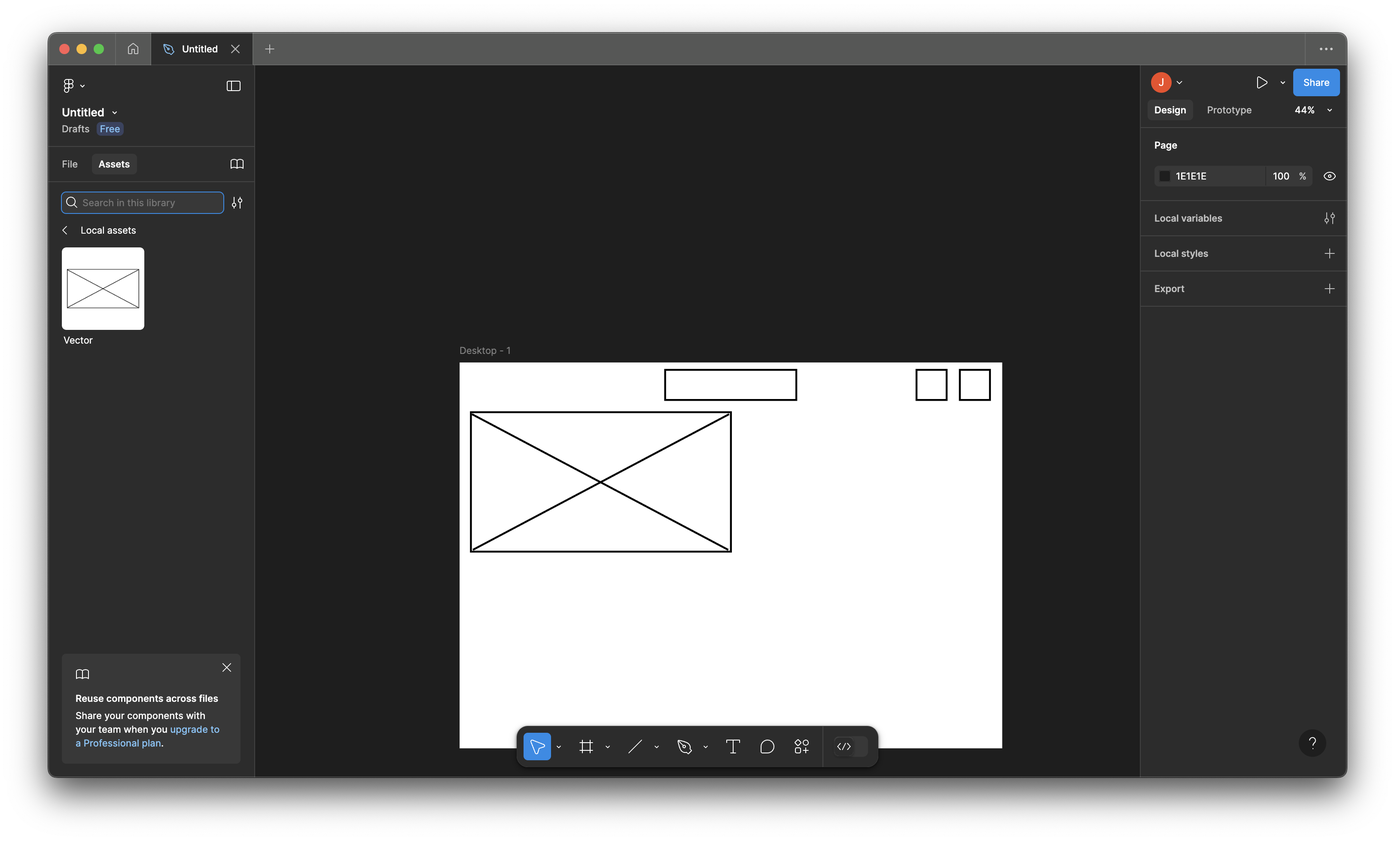
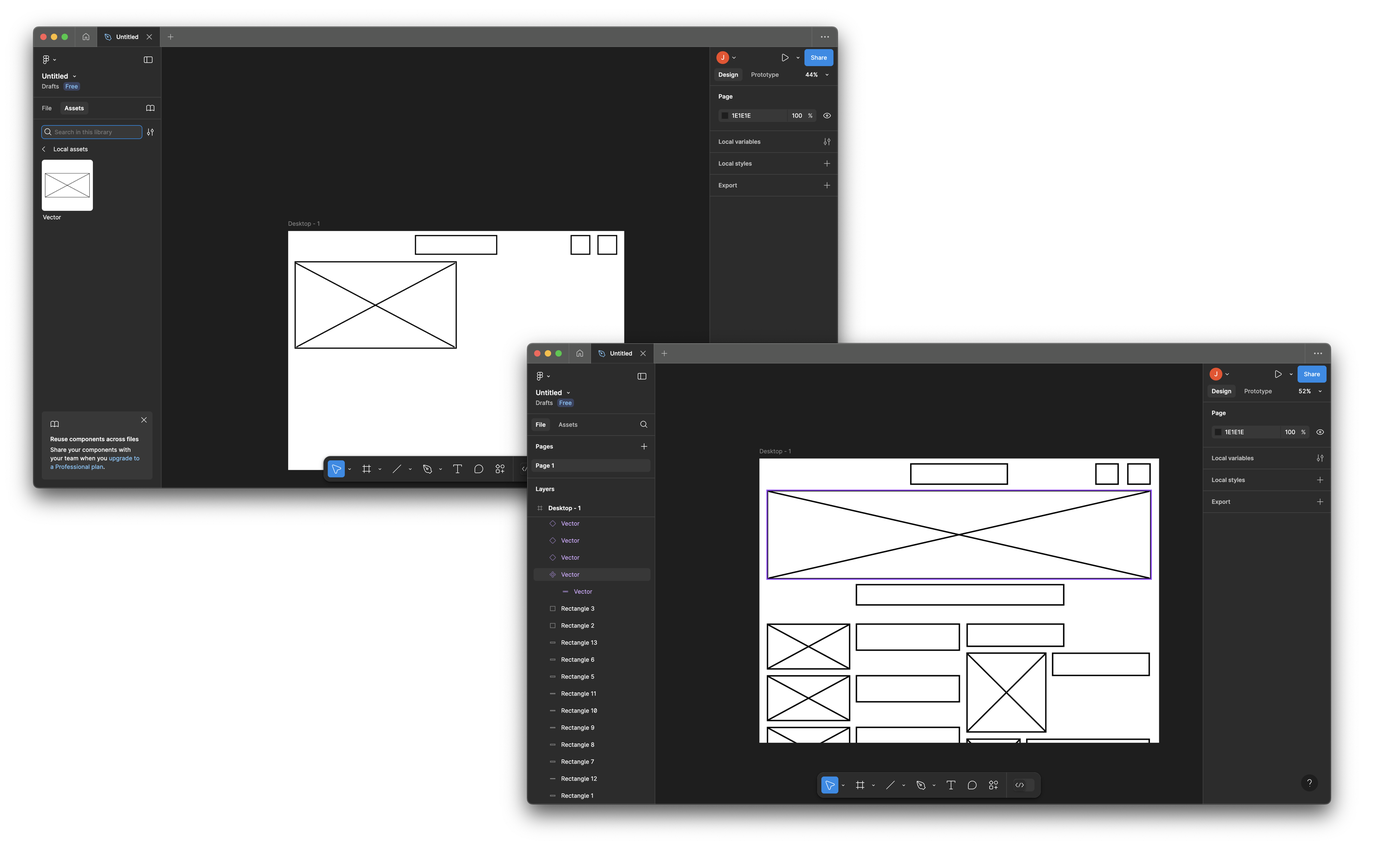
blog

diff --git a/posts/w10s2.md b/posts/w10s2.md
@@ -8,13 +8,13 @@ allow_math: true
 
 # Figma Basics
 
-In class, we learned the basic functions of Figma, such as creating artboards, shapes, gradients, text and prototype interactions and animations. These are the main things that we will need to know to use the application to make our portfolio website for Assignment 3. 
+In class, we learned the basic functions of Figma, including frames, the shape tool, gradients, text and prototype interactions and animations. These are the main things that we will need to know to make our portfolio website for Assignment 3. 
 
-Figma works similarly to Adobe Illustrator, with very similar tools. For instance, the program uses artboards. In Figma, you can choose to make artboards the size of the screens you are designing for. Here, I have three desktop sized artboards and 3 iPhone 13/14 sized artboards. Having multiple of each is an effective way to trial different designs and compare them side by side.
+Figma works similarly to Adobe Illustrator, with very similar tools. For instance, the program uses artboards (but calls them 'frames'). In Figma, you can choose to make frames the size of the screens you are designing for. Here, I have three 'desktop' sized artboards and 3 iPhone 13/14 sized artboards. Having multiple of each is an effective way to trial different designs and compare them side by side.
 
 ![artboards](/w10s2/1.png)
 
-I used the shape tool to create a rectangle the size of the artboard and a circle, and used the fill option to fill them with gradients. There is an option to add effects to objects, so I added drop shadows and inner shadows to the circle and gave it a large blur and spread to make it look like a 3D bubble. Command+D as expected allowed me to duplicate this, and I was able to scale them uniformly on all axes by transforming them while holding shift. I used two circles and the 'Subtrack Selection' tool in the 'Boolean groups' to make a crescent moon, working much like the pathfinder tools in illustrator. Making text worked as expected: I simply made a text box and was able to change the font family, type, size and colour as I desired.
+I used the shape tool to create a rectangle the size of the artboard. I made a circle with the shape tool, and used the fill option to fill both shapes with gradients. There is an option to add effects to objects, so I added drop shadows and inner shadows to the circle and gave it a large blur and spread to make it look like a 3D bubble. Command+D, as expected, allowed me to duplicate them and I was able to scale them uniformly on all axes by transforming them while holding shift. I used two circles and the 'Subtrack Selection' tool in the 'Boolean groups' to make a crescent moon, working much like the pathfinder tools in illustrator. Making text worked as expected: I simply made a text box and was able to change the font family, type, size and colour as I desired.
 
 ![design](/w10s2/2.png)
 
@@ -22,11 +22,11 @@ We were designing a scrolling website, so I extended the artboard and the backgr
 
 ![scroll](/w10s2/3.png)
 
-To prototype how paragraphs would appear on the website, I created 4 text boxes with 'Lorem Ipsum' paragraphs generated by loremipsum.io. On the prototype tab in the sidebar on the right, you can add interactions to particular items: I added an animation so that the site would scroll down to the first paragraph when the bubbles are clicked. I wanted it to be slow rather than intense, so I chose for it to take 3000ms, and chose the "slow" animation style. 
+To prototype how paragraphs would appear on the website, I created 4 text boxes with 'Lorem Ipsum' text generated by loremipsum.io. On the prototype tab in the sidebar on the right, you can add interactions to particular items: I added an animation so that the site would scroll down to the first paragraph when the bubbles are clicked. I wanted it to be slow rather than intense, so I chose for it to take 3000ms, and chose the "slow" animation style. 
 
 ![loremipsum](/w10s2/4.png)
 
-Images will be important in our websites, as we are displaying our work on them. There are two ways to add images, one is to just drag the image in, and the other is to create a shape with the shape tool and drag the image into it, so that it appears inside that shape. I made a circle to fit in with the bubbles, and put a photo of me in it.
+Images will be important in our websites, as we are displaying our work on them. There are two ways to add images, one is to just drag the image into the program, and the other is to create a shape with the shape tool and drag the image into it, so that it appears inside that shape. I made a circle to fit in with the bubbles, and put a photo of me in it.
 
 ![pintoflager](/w10s2/6.png)
 
@@ -50,9 +50,9 @@ Using the principles of space and navigation, and skills in Unity and C#, I crea
 
 ## Practicing Figma
 
-We were tasked to use some images and quotes from the documentation we identified in the last homework session, and use this to practice implementing content on Figma. I tried to base this on the sketches I did in the [last post](https://jackreed050-dms1-blog-55.deno.dev/w10s1). 
+The next task was collect some images and quotes from the documentation we identified in the last homework session, and use them to practice implementing content on Figma. I tried to base this on the sketches I did in the [last post](https://jackreed050-dms1-blog-55.deno.dev/w10s1). 
 
-First I made a main page without any of the content, inside a Desktop sized artboard. I made text boxes and experimented with some fonts that could help me achieve my intention of a playful, stylised look. 
+First I made a main page without any of the content, inside a Desktop sized frame. I made text boxes and experimented with some fonts that could help me achieve my intention of a playful, stylised look. 
 
 ![home](/w10s2/7.png)
 
@@ -64,7 +64,7 @@ I found a widget to play YouTube videos, which I added in a card under the origi
 
 ![video](/w10s2/9.png)
 
-I set all of the elements to "scroll with parent" in the prototype tab except for my name, which I had keeping in place while the user scrolls, as an icon in the corner. 
+I set all of the elements to "scroll with parent" in the prototype tab except for my name, which I kept in place while the user scrolls using the 'sticky' scroll option.
 
 ![still](/w10s2/10.png)
 
@@ -77,23 +77,12 @@ For homework, we were tasked with writing a first draft of our designer bio. Her
 Along with this, we have been tasked with what visual elements I can use to express my tastes as a designer. Some of the ideas I have so far are:
 
 * Vibrant, psychedelic, dreamy colours (Deep blues and purples)
-* By contrast, I do like very clean designs: white with serif fonts. See the album package for *A Ghost Is Born* by Wilco for example:
-![agib](https://upload.wikimedia.org/wikipedia/en/5/5f/WilcoAGhostIsBorn.jpg)
-![agib1](https://i0.wp.com/dnadel.com/wp-content/uploads/2004/07/5889-max.jpg)
-* Illustrative designs, I love intricate linework: 
-![vesp](https://upload.wikimedia.org/wikipedia/en/thumb/1/14/Bj%C3%B6rk_-_Vespertine_album_cover.png/220px-Bj%C3%B6rk_-_Vespertine_album_cover.png)
-* Bold fonts. I love classic, bold wide fonts (such as Stretch Pro without the stretching feature) and more unique fonts like perfora:
-![perfora](https://cdn.myfonts.net/cdn-cgi/image/width=417,height=208,fit=contain,format=auto/images/pim/10004/61Ir8CpPcQ9Q0pDouGgmV61g_0c9fdb23af352631707ba4d2e0fc3c50.png)
+* By contrast, I do like very clean designs: white with serif fonts. See the album package for *A Ghost Is Born* by Wilco below for example
+* Illustrative designs, I love intricate linework. 
+* Bold fonts. I love classic, bold wide fonts (such as Stretch Pro without the stretching feature) and more unique fonts like perfora
+[Perfora](/https://www.myfonts.com/collections/perfora-font-in-house-international?srsltid=AfmBOoqzehoXwxZD6uxVz5vUk4KF3SS5k1sNp4STaheWuQXz4EENXCxB)
 * Motion design. This might be hard to achieve in a figma prototype, but I love the use of motion graphics in a web design.
-* Gradients. I think these can help convey my taste for more fantastical and stylised looking things, but I feel they can look outdated if used in some ways: ie. early 2000s 'aqua' interfaces like early OSX. I like gradients in use cases such as in my figma practice from in class:
-![pintoflager](/w10s2/6.png)
-* I am a big fan of [M/M Paris](https://www.instagram.com/mmparisdotcom) in terms of design, and would be interested in mirroring aspects of their design ie. handwritted/illustrated text, cursive/script fonts, linework illustrations, bright colours. Some of their work:
-![mm1](https://encrypted-tbn0.gstatic.com/images?q=tbn:ANd9GcQ3khV42l58S9MQd99AwfgyY2-y7i4IaWd2CQ&s) 
-![mm1](https://i0.wp.com/tokyotypedirectorsclub.org/wp-content/uploads/2020/02/05_Non-members-Prize_a-1.jpg?fit=1022%2C1500&ssl=1) 
-![mm1](https://media.hero-magazine.com/wp-content/uploads/2020/10/14105034/M2M_Sarah-Morris_Strange-Magic.jpg) 
+* I am a big fan of [M/M Paris](https://www.instagram.com/mmparisdotcom) in terms of design, and would be interested in mirroring aspects of their design ie. handwritted/illustrated text, cursive/script fonts, linework illustrations, bright colours. Some of their work can be seen below.
 
-
-
-
-
+![inspo](/w10s2/inspo.png)
 

diff --git a/posts/w10s1.md b/posts/w10s1.md
@@ -8,7 +8,7 @@ allow_math: true
 # Reflection
 ## Self-Reflection Questions
 
-In our final assignment, we will be creating a prototype for a portfolio website for our own creative practice. This means we will be representing our work in the semester thus far, and will need to write about this as well as our creative practice in general. To help us to reflect on our work, we were encouraged for homework to answer the following self-reflection questions about the last three assignments in this class:
+In our final assignment, we will be creating a prototype portfolio website for our own creative practice. This means we will be representing our work in the semester thus far, and will need to write about this, as well as our creative practice in general. To help us to reflect on our work, we were encouraged to answer the following self-reflection questions about our past three assignments:
 
 ### Assignment 1
 * How did you approach the relationship between the sonic and visual components of your edit?
@@ -54,31 +54,31 @@ In our final assignment, we will be creating a prototype for a portfolio website
 
 ## Revisiting Documentation
 
-In order to help us with reflecting on our past work, for homework we are encouraged to find past process documentation and reflections which can help us communicate our progress along the semester. Here are the pieces I believe will be useful:
+To help us with reflecting on our past work, we were encouraged to find any past process documentation and reflections which could help us communicate our progress along the semester. Here are the pieces I believe will be useful:
 
 ### Assignment 1
 
-* In the [Week 2 Session 2 blogpost](https://jackreed050-dms1-blog-55.deno.dev/w2s2), I described the importance of a key moment in my storyboard and how I would achieve the use of audio in this part. In this post, I described my assignment concept and use of audio. Here, I discuss my use of match-cuts, which focus on the "similar shapes and slow movements" between the first 3 shots. I discuss using relaxed music in 3/4 time to give the video a calm feeling, and editing the shots on beat to reinforce this emotion. I also discussed materialising some of the sounds in the video here. 
+* In the [Week 2 Session 2 blogpost](https://jackreed050-dms1-blog-55.deno.dev/w2s2), I described the importance of a key moment in my storyboard, and how I would use audio in this part. In this post, I described my assignment concept and my use of audio. I discuss my use of match-cuts, which focus on the "similar shapes and slow movements" between the first 3 shots. I discussed using relaxed music in 3/4 time to give the video a calm feeling, and editing the shots on-beat to reinforce this emotion. I also discussed materialising some of the sounds in the video using diegetic sound. 
 
-* In the description for my Assignment 1 draft on [Youtube](https://www.youtube.com/watch?v=81SM4SHPsg0&ab_channel=JackReed), I describe a lot of these things in a more condensed way, which can be helpful for me when writing a succinct artist statement.
+* In the description for my Assignment 1 draft on [Youtube](https://www.youtube.com/watch?v=81SM4SHPsg0&ab_channel=JackReed), I describe a lot of these things in a more condensed way, which could be helpful for me when writing a succinct artist statement.
 
 ### Assignment 2
 
-* In the [Week 4 Session 1 (Part 2) blogpost](https://jackreed050-dms1-blog-55.deno.dev/w4s1(2)), I brainstormed many of the ideas that I ended up choosing for my icon designs, but most importantly, in this post I described the idea for my video game and the intended audience, which will be key in writing my artist's statement.
+* In the [Week 4 Session 1 (Part 2) blogpost](https://jackreed050-dms1-blog-55.deno.dev/w4s1(2)), I brainstormed many of the ideas that I ended up choosing for my icon designs, but most importantly, I described the idea for my video game and its intended audience, which will be important when writing my artist's statement.
 
-* In the [Week 4 Session 2 (Part 2) blogpost](https://jackreed050-dms1-blog-55.deno.dev/w4s2(2)), I thumbnailed the icon designs and chose the most effective ones, describing why they were effective. These descriptions could be quite useful in describing my choices in an artists' statement. 
+* In the [Week 4 Session 2 (Part 2) blogpost](https://jackreed050-dms1-blog-55.deno.dev/w4s2(2)), I thumbnailed icon designs and chose the most effective ones, describing why they were effective. These descriptions could be quite useful in my artists' statement. 
 
-* In the [Week 5 Session 1 (Part 2) blogpost](https://jackreed050-dms1-blog-55.deno.dev/w5s1(2)), I trialed different colour schemes and evaluated which ones worked and why. This will be useful in describing and justifying my use of audio in my artists' statment.
+* In the [Week 5 Session 1 (Part 2) blogpost](https://jackreed050-dms1-blog-55.deno.dev/w5s1(2)), I trialed different colour schemes and evaluated which ones worked and why. This will be useful in describing and justifying my use of colour in my artists' statment.
 
-* In the [Week 6 Session 1 blogpost](https://jackreed050-dms1-blog-55.deno.dev/w6s1), I described the sound for each icon and why I chose it. This will be useful for describing the audio part, and my intentions in the artists' statement. 
+* In the [Week 6 Session 1 blogpost](https://jackreed050-dms1-blog-55.deno.dev/w6s1), I described the sound for each icon and why I chose it. This will be useful for describing my intentions and use of audio in the artists' statement. 
 
 ### Assignment 3
 
-* In the [Week 7 Session 1 blogpost](https://jackreed050-dms1-blog-55.deno.dev/w7s1), I planned out my idea for the environment, including the meaning, and a map with descriptions of what each element would do and how it would convey my idea. While a lot of this changed over the course of developing the envrionment, many of it should be useful for helping me articulate how I supported my concepts through the environment. I also discuss my use of cel-shading here.
+* In the [Week 7 Session 1 blogpost](https://jackreed050-dms1-blog-55.deno.dev/w7s1), I planned out my idea for the environment, including its meaning, and a map with descriptions of what each element would do and how it would convey my idea. While a lot of this changed over the course of developing the envrionment, some of it should be useful for articulating how I conveyed ideas in the environment. I also discuss my use of cel-shading here.
 
-* In the [Week 8 Session 2 blogpost](https://jackreed050-dms1-blog-55.deno.dev/w8s2), I described how I used sound in the envrionment and why, including my use of sounds to materialise the environment, guide the user towards the trees, and making a soundtrack which evolves over the course of the user's navigation.
+* In the [Week 8 Session 2 blogpost](https://jackreed050-dms1-blog-55.deno.dev/w8s2), I described how I used sound in the envrionment and why, including my use of sounds to materialise the environment, guide the user towards the trees, and the soundtrack which evolves over the course of the user's navigation.
 
-* In the blogposts for the two playtesting sessions [(Part 1)](https://jackreed050-dms1-blog-55.deno.dev/w9s1(3)) [(Part 2)](https://jackreed050-dms1-blog-55.deno.dev/w9s2), I display the results from my survey, and reflect on what parts did and didn't work and how I could change them. This can help me to discuss the process of feedback in developing my digital environment, and the importance of the user's control of the camera in how the message is conveyed. 
+* In the blogposts for the two playtesting sessions [(Part 1)](https://jackreed050-dms1-blog-55.deno.dev/w9s1(3)) [(Part 2)](https://jackreed050-dms1-blog-55.deno.dev/w9s2), I display the results from my survey, and reflect on what parts did and didn't work and how I could change them. This can help me to discuss the use of feedback in developing my digital environment, and the importance of the user's control of the camera in how the message is conveyed. 
 
 # Planning website
 ## Planning the structure

diff --git a/posts/w11s2.md b/posts/w11s2.md
@@ -27,17 +27,19 @@ I did, however struggle to do this for the mobile versions of these sites. This 
 
 For homework, we were tasked with revisiting our websites and considering how they could be improved with a grid layout. I looked at my wireframe for the desktop version of my website and tried applying the grid layout. I felt like this helped me make the layout more balanced, with elements such as the images and the text taking up a more equal amount of the composition. Furthermore, it helped me judge the space between items in a more consistent way, so none of the measurements looked out of place with eachother, and the cards looked less claustrophobic.
 
+Before:
 ![old](/w11s1/8.png)
+After:
 ![new](/w11s2/5.png)
 
 ## Implementing content
 
-I began to implement the content into the site, keeping the grid overlay turned on for now incase of the text changing size. I implemented my title, for which I used the font Perfora, which has a unique appearance inspired by punch-holes and paper cut-outs, and I used bright pastel colours to reflect the 'playful' style I mentioned before. This evokes my taste as a designer, and the use of a unique font and bright colours is inspired by M/M paris who I [previously noted as an influence](https://jackreed050-dms1-blog-55.deno.dev/w10s2). I kept the background plain dark grey to keep the design fairly minimal, as while many of my influences lean towards maximalism, I am very influenced by minimal designs; [I referenced the package for Wilco's A Ghost Is Born as an influence](https://jackreed050-dms1-blog-55.deno.dev/w10s2). The combination of these two elements should display that as a designer, while I like to use playful and stylised visuals, I enjoy sleek and minimalist designs. I used the Adobe Colour website to generate the colour pallete I used. I had another version of my "logo" above the first card as a logo which follows you through the website, on one line to save horizontal space in the website while keeping the font size large and readable. It is inside a text box but on the second line, so that when I set it to "Sticky" (stick to the top of the screen) in the prototype settings, there is a gap at the top of the page. I also added a grey rectangle behind it which also sticks to the top, so that the text doesn't go over the cards when scrolling. I did end up changing the column weight and margin to account for the text being added in. I made a 'scroll down' button/indicator using the triangle shape tool (and curving the edges) and a similarly bold font to my name, that was more readable but fairly consistent in weight to the title font. Next, I began implementing the information about the individual projects. I used the same font as the one used for my name for the project titles. I initially tried the different colours which were used for my name, but settled on the background grey colour to ensure their readability. I used a more simple sans-serif font for the body text, in black and size 20px (the suggested minimum is 16) to ensure that it was accessible and readable. Lastly, I implemented my images of the projects into the cards.
+I began to implement the content into the site, keeping the grid overlay turned on for now incase of the text changing size. I implemented my title, for which I used the font Perfora, which has a unique appearance inspired by punch-holes and paper cut-outs, and I used bright pastel colours to reflect the 'playful' style I mentioned before. This evokes my taste as a designer, and the use of a unique font and bright colours is inspired by M/M paris who I [previously noted as an influence](https://jackreed050-dms1-blog-55.deno.dev/w10s2). The bright and vibrant colours also evoke the psychedelic style which I wanted to evoke. I kept the background plain dark grey to keep the design fairly minimal, as while many of my influences lean towards maximalism, I am very influenced by minimal designs; [I referenced the package for Wilco's A Ghost Is Born as an influence](https://jackreed050-dms1-blog-55.deno.dev/w10s2). The combination of these two elements should display that as a designer, while I like to use playful and stylised visuals, I enjoy sleek and minimalist designs. I used the Adobe Colour website to generate the colour pallete I used. I had another version of my "logo" above the first card as a logo which follows you through the website, on one line to save horizontal space in the website while keeping the font size large and readable. It is inside a text box but on the second line, so that when I set it to "Sticky" (stick to the top of the screen) in the prototype settings, there is a gap at the top of the page. I also added a grey rectangle behind it which also sticks to the top, so that the text doesn't go over the cards when scrolling. I did end up changing the column weight and margin to account for the text being added in. I made a 'scroll down' button/indicator using the triangle shape tool (and curving the edges) and a similarly bold font to my name, that was more readable but fairly consistent in weight to the title font. Next, I began implementing the information about the individual projects. I used the same font as the one used for my name for the project titles. I initially tried the different colours which were used for my name, but settled on the background grey colour to ensure their readability. I used a more simple sans-serif font for the body text, in black and size 20px (the suggested minimum is 16) to ensure that it was accessible and readable. Lastly, I implemented my images of the projects into the cards.
 
 ![6](/w11s2/6.png)
 ![7](/w11s2/7.png)
 
-I used the prototype settings for the "scroll down" button and the second "logo" to add "On Click" behaviours, so they would scroll: clicking the "scroll down" button scrolls to the grey rectangle so as to view the first card in the center of the screen, and clicking the second logo scrolls to an invisible rectangle at the top of the whole design to take the user back to the start.
+I used the prototype/interact settings for the "scroll down" button and the second "logo" to add "On Click" behaviours, so they would scroll: clicking the "scroll down" button scrolls to the grey rectangle so as to view the first card in the center of the screen, and clicking the second logo scrolls to an invisible rectangle at the top of the whole design to take the user back to the start.
 
 ![8](/w11s2/8.png)
 
@@ -51,7 +53,7 @@ I ran the Contrast Checker plugin in my Figma project, which checks if your proj
 
 ![10](/w11s2/10.png)
 
-I found out that the font size for the body text in the mobile version of my website was 15px, although the recommended is 16px, so I changed this and rearranged the elements accordingly. The most common feedback from family and friends was that the font I chose for the "logos" was not very legible. The font has multiple weights, and the smaller ones have more defined shapes, so I switched to a smaller weight which made it much easier to read.
+I found out that the font size for the body text in the mobile version of my website was 15px, although the recommended is 16px, so I changed this and rearranged the elements accordingly. The most common feedback from family and friends was that the font I chose for the "logo" was not very legible. The font has multiple weights, and the smaller ones have more defined shapes, so I switched to a smaller weight which made it much easier to read.
 
 ![11](/w11s2/11.png)
 

diff --git a/posts/w11s1.md b/posts/w11s1.md
@@ -8,13 +8,11 @@ allow_math: true
 
 # Classwork
 
-In class, we were tasked with recreating a wireframe for a website from our memory. A wireframe is a basic prototype for a website that only includes basic shapes which indicate the layout of elements. For instance, boxes may represent text or shapes, and boxes with an X inside may represent images. This task is helpful as it gets us used to the task of wireframing, and draws our attention to our 'blind spots', the elements we may have forgotten to include while creating our wireframe from memory, that may be crucial elements we should avoid overlooking in our future web design. 
+In class, we were tasked with recreating a wireframe for a website from our memory. A wireframe is a basic prototype for a website that only includes basic shapes which indicate the layout of elements. For instance, boxes may represent text or shapes, and boxes with an X inside may represent images. This task is helpful as it gives us pracitice in wireframing, which we will use to plan the layouts of our website. Furthermore, it draws our attention to our 'blind spots', the elements we may have forgotten to include while creating our wireframe from memory. These could be crucial elements we should avoid overlooking in our future web design. 
 
-The site I chose to recreate was Pitchfork. I used the shape tool in Figma to create rectangles, with a black stroke on each, representing the text and other shapes in the design, and used the line tool to create crosses which designated images. I made the rectangle with a cross an Asset so I could quickly recreate it.
+The site I chose to recreate was the Pitchfork homepage. I used the shape tool in Figma to create rectangles, with a black stroke on each, representing the text and other shapes, and used the line tool to create crosses which designated images. I made the rectangle with a cross an Asset, so I could quickly recreate it.
 
 ![1](/w11s1/1.png)
-![2](/w11s1/2.png)
-![3](/w11s1/3.png)
 
 My final design was not correct, however I think it was a combination of the current and a slightly older Pitchfork layout.
 
@@ -32,19 +30,17 @@ We were then instructed to look at the actual website and then recreate it. I en
 
 # Homework
 
-We were instructed for homework to create some wireframe iterations of our portfolio. 
+For homework, we were instructed to create some wireframe iterations of our portfolio. 
 
-For my first one, I experimented with using the Golden Ratio to see if it would help me make the page look more aesthetically pleasing. I started by making a desktop-sized artboard, and then scaling it lengthwise to fit other elements below to scroll to. I made "cards" for each of my projects and bio. 
+For my first one, I experimented with using the Golden Ratio to see if it would help me make the page look more aesthetically pleasing. I didn't find it made my layout any stronger than the others I did below. I started by making a desktop-sized artboard, and then scaling it lengthwise to make it scrollable. I made "cards" for each of my projects and bio. 
 
-![4](/w11s1/4.png)
 ![5](/w11s1/5.png)
-![6](/w11s1/6.png)
 
-For the next one, I tried having half the page filled with a block colour and text, and the other half filled with images, and having them switch sides for each project. For the last one, I brought back the "cards", made the text more central and brough in a line which continues down the site, in order to evoke M/M Paris's often illustrative style that I [previously noted as a potential influence](https://jackreed050-dms1-blog-55.deno.dev/w10s2).
+For the next one, I considered having half the page filled with a block colour and text, and the other half filled with images, and having these elements alternate sides for each project. For the last one, I brought back the "cards", made the text more central and brough in a line which continues down the site, in order to evoke M/M Paris's often illustrative style that I [previously noted as a potential influence](https://jackreed050-dms1-blog-55.deno.dev/w10s2).
 
 ![wireframes](/w11s1/wireframes.png)
 
-I think having the text central as in the last design, rather than at opposing corners was more successful, as having text at opposing ends may not make the focal point of the website upon opening, my name, as clear for the user. I however do prefer having the logo in the corner while the user is scrolling through the cards, as in the first design is a good idea, as it keeps the branding/my name constantly in view. I think the cards with their curved edges in the first and last are a more playful design which is what i wanted to evoke as [stated in the last blogpost](https://jackreed050-dms1-blog-55.deno.dev/w10s2), as it should remind the user of my stylised visuals and taste in design. By contrast, the hard edges in the second design look professional and sleek. The second design contains a circular badge at the bottom, which I intend to be an indicator saying "scroll down". I think this will be helpful for the user to navigate the site, as it may not be clear that they need to scroll without it, so I will keep it in my final wireframe. Lastly, while I think having some sort of illustration in the background might be interesting to experiment with, and an effective way to evoke my taste for stylised visuals and my M/M Paris inspiration, for now it appears to look too busy to have the line as in the third design, so I will not continue with that for my final wireframe. 
+I think having the logo central as in the last design, rather than at opposing corners was more successful, as the logo would be a stronger focal point if it was central. I do however think having the logo in the corner while the user is scrolling through the cards, like the first design is a good idea, as it keeps the branding/my name constantly in view. I think the cards with their curved edges in the first and last are a more playful design which is what i wanted to evoke as [stated in the last blogpost](https://jackreed050-dms1-blog-55.deno.dev/w10s2), as it should remind the user of my stylised visuals and taste in design. By contrast, the hard edges in the second design look professional and sleek. The second design contains a circular badge at the bottom, which I intend to be an indicator saying "scroll down". I think this will be helpful for the user to navigate the site, as it may not be clear that they need to scroll without it, so I will keep it in my final wireframe. While I think having some sort of illustration in the background might be interesting to experiment with, and an effective way to evoke my taste for stylised visuals, having the line in the third wireframe makes it too busy, so I will not continue with that for my final wireframe. 
 
 Considering those refinements, I have constructed a final wireframe for the portfolio: 
 
